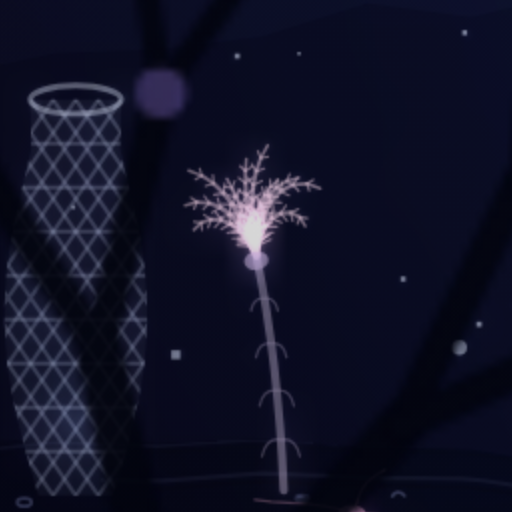
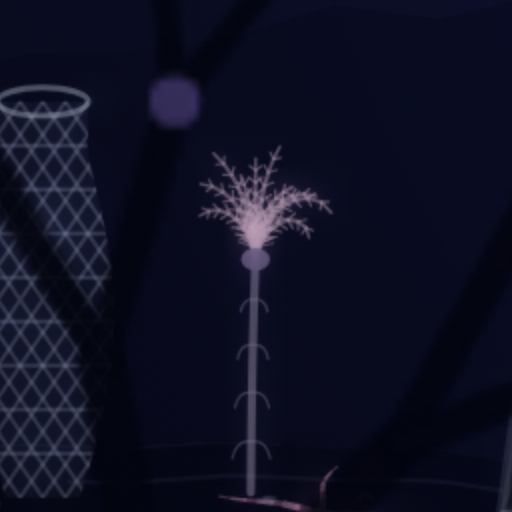
Sea lilies: no white-hot crown root under the bloom

diff --git a/src/game/render/life.ts b/src/game/render/life.ts
@@ -21,10 +21,10 @@ export function createLife(seed: number) {
     { x: 0.46, size: 0.9 },
   ];
   const lilies: Lily[] = [
-    { x: -0.42, size: 1.0, phase: 0, hue: '230,200,215' },
-    { x: -0.06, size: 0.75, phase: 2.1, hue: '215,215,240' },
-    { x: 0.2, size: 0.9, phase: 4.2, hue: '240,210,190' },
-    { x: 0.4, size: 0.65, phase: 1.3, hue: '220,205,235' },
+    { x: -0.42, size: 1.0, phase: 0, hue: '200,172,188' },
+    { x: -0.06, size: 0.75, phase: 2.1, hue: '186,186,212' },
+    { x: 0.2, size: 0.9, phase: 4.2, hue: '208,180,164' },
+    { x: 0.4, size: 0.65, phase: 1.3, hue: '192,178,206' },
   ];
   const jellies: Jelly[] = Array.from({ length: 3 }, (_, i) => ({
     x: [-0.36, 0.33, -0.2][i]! + range(rng, -0.04, 0.04),
@@ -801,6 +801,8 @@ export function createLife(seed: number) {
       for (let k = 0; k < seg; k++) {
         const u = k / seg;
         const nx = px + Math.cos(ang) * step, ny = py + Math.sin(ang) * step;
+        // Fainter near the cup, where all ten arms overlap.
+        ctx.strokeStyle = `rgba(${c.hue},${k < 2 ? 0.3 + 0.15 * k : 0.6})`;
         ctx.lineWidth = (1.3 - u * 0.8) * s;
         ctx.beginPath();
         ctx.moveTo(px, py);
@@ -820,10 +822,10 @@ export function createLife(seed: number) {
         ang += curl * (0.3 + 1.8 * u);
       }
     }
-    // The cup the arms rise from.
-    ctx.fillStyle = 'rgba(176,160,190,0.7)';
+    // The cup the arms rise from, over their crowded roots (which would bloom white).
+    ctx.fillStyle = 'rgba(120,104,138,0.95)';
     ctx.beginPath();
-    ctx.ellipse(tx, ty + 1 * s, 2.4 * s, 1.8 * s, sway, 0, Math.PI * 2);
+    ctx.ellipse(tx, ty + 0.6 * s, 2.8 * s, 2.2 * s, sway, 0, Math.PI * 2);
     ctx.fill();
     ctx.restore();
   }

diff --git a/docs/PROGRESS.md b/docs/PROGRESS.md
@@ -1326,3 +1326,4 @@ date, what landed, what is half-done, what's next.
 - The Twilight moray's hole lay in the middle of the left garden-eel colony (their spots overlapped in every sample; a tap on an eel could open the moray): the colony stands at u 0.10–0.20 now (same draws) and the moray at 0.235, between it and the octopus. Found by a scratch sweep that samples `corallum.spots` at 20× speed per zone and counts pairs of creatures sharing a place (the other pairs are fish passing over things); README Twilight picture retaken.
 - A creature whose portrait was let go for darkness rests 5 s before it is wanted again, so it does not hold the once-a-second portrait slot while others on screen wait. Full suite green after the late changes (tsc, 101 sim tests, 8 browser tests).
 - Open (phones): the Twilight slope left of the reef is crowded on a 390 px screen: eels, moray, pistol shrimp, octopus, mantis shrimp and frogfish within ~90 px, and the mantis shrimp's spot sits on the pistol shrimp's burrow (the slope creatures are placed by fractions of the scene width, the residents by reef units). Stepping the mantis aside only moved it onto the octopus or the frogfish (tried, reverted): it needs the slope's places laid out together for narrow screens. The spot-collision sweep (scratch: sample `corallum.spots` at speed 20 per zone, count pairs of creatures sharing a place) shows it.
+- Sea lilies burned white at the root of the crown under the bloom (near-white tints, ten arms overlapping there): tints lowered under the pale-fill ceiling, the arms fainter for their first segments, and a darker cup drawn over their roots.
